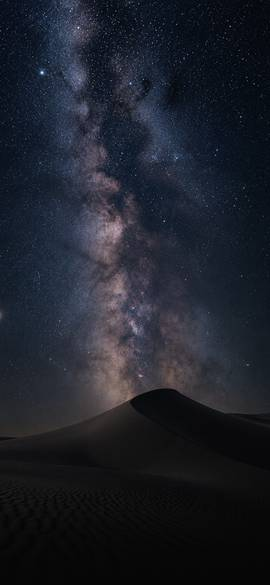
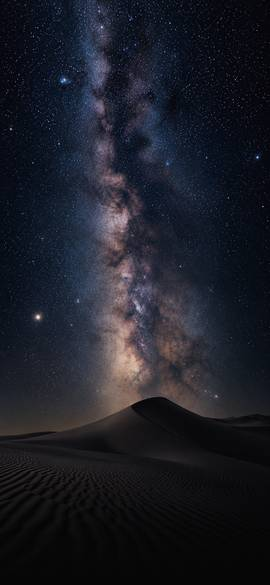
周波数シーンに「浮かぶ泡 14Hz」「火の山 40Hz」を追加、星河をフルスクリーン版に差し替え
Claude-Session: https://claude.ai/code/session_01E1xXeaaEwhmvNp4PTzJFup

diff --git a/index.html b/index.html
@@ -864,7 +864,7 @@ const EN = {
   '読み込めませんでした。書き出したテキストか確認してください':'Could not read it. Make sure it is exported text','ZENTOKIのバックアップではないようです':'This does not look like a ZENTOKI backup','%1件の記録を読み込みました':'%1 records imported','新しい記録はありませんでした（重複は除外）':'Nothing new to import (duplicates skipped)','書き出しました。ダウンロードが始まらない場合は「テキストをコピー」を使ってください':'Exported. If the download does not start, use “Copy as text”','コピーしました。メモなどに貼り付けて保存してください':'Copied. Paste it somewhere safe','コピーできませんでした':'Could not copy','断食・瞑想・体重の記録をすべて削除します。よろしいですか？ 元に戻せません。':'Delete all fasting, meditation and weight records? This cannot be undone.','削除しました':'Deleted',
   '通知はアプリを閉じていても、目標やステージの時刻に届きます。':'Notifications arrive at goal and stage times even when the app is closed.','音はアプリを開いている間だけ流れます。画面ロックや他のアプリへの切り替えで止まります。':'Sound plays while the app is open. It stops when the screen locks or you switch apps.',
   'お支払いはAirペイの決済ページで行います。お支払い後に届く「支払完了メール」を':'Payment is handled on the AirPay checkout page. After paying, forward the payment-confirmation email to','に転送してください。ライセンスキーを返信します（通常24時間以内）。':'and we will reply with your licence key (usually within 24 hours).','こちら':'this address','（Airペイの支払完了メールをこのまま転送してください）':'(Please forward the AirPay payment-confirmation email as is.)','お支払い後、支払完了メールを転送してください。キーをお送りします':'After paying, forward the confirmation email and we will send your key','メールや購入完了ページで受け取ったキー（ZK- で始まる文字列）を入力してください。':'Enter the key you received by email or on the purchase page (it starts with ZK-).',
-  '周波数':'Frequency','周波数の強さ':'Tone strength','低':'Low','普通':'Normal','高':'High','集中':'Focus','睡眠':'Sleep','深い眠り':'Deep sleep','欠けゆく月':'Waning Moon','光の届く深さ':'Where Light Reaches','洞窟の滝':'Cave Falls','聖夜':'Christmas Eve','砂漠の星河':'Desert Milky Way','音量を下げる':'Volume down','音量を上げる':'Volume up',
+  '周波数':'Frequency','周波数の強さ':'Tone strength','低':'Low','普通':'Normal','高':'High','集中':'Focus','睡眠':'Sleep','深い眠り':'Deep sleep','目覚め':'Wake','エネルギー':'Energy','浮かぶ泡':'Rising Bubbles','火の山':'Mountain of Fire','欠けゆく月':'Waning Moon','光の届く深さ':'Where Light Reaches','洞窟の滝':'Cave Falls','聖夜':'Christmas Eve','砂漠の星河':'Desert Milky Way','音量を下げる':'Volume down','音量を上げる':'Volume up',
   '情景と、ひとつの周波数。左右で少し違う高さの音の差が、うなりとして感じられます。':'One scene, one frequency. The small difference between the left and right tones is felt as a slow beat.','イヤホンで聴いてください。':'Listen with earphones.',
   '効果の感じ方には個人差があります。光や音の刺激に敏感な方、てんかんの既往がある方は使用を控えてください。':'Effects vary from person to person. Avoid if you are sensitive to light or sound, or have a history of epilepsy.',
   'キーの形式が違います':'That key format is not right','この版ではライセンスキーを使えません':'Licence keys are not available in this build','ZENTOKI Plus が有効になりました':'ZENTOKI Plus is active','このキーは無効になっています':'This key has been revoked','キーが確認できませんでした':'Could not verify the key','通信できませんでした。あとでもう一度お試しください':'No connection. Please try again later','商品を読み込めませんでした':'Could not load the product','購入を完了できませんでした':'Purchase could not be completed','購入を復元しました':'Purchase restored','復元できる購入が見つかりませんでした':'No purchase to restore','復元できませんでした':'Could not restore','準備中です':'Coming soon',
@@ -924,7 +924,7 @@ const PLUS = {
   // manualKey: true = 決済後にキーをメールで送る運用（Airペイ）。false = Stripe → thanks.html で自動発行。
   web: { paymentLink: 'https://web.online.airpayment.jp/payment?planId=PLqB15OEGREuebjqsd', verifyUrl: '', manualKey: true, supportEmail: '' },
   ios: { rcApiKey: '', entitlement: 'plus', product: 'app.zentoki.plus' },
-  sounds: ['ocean', 'forest', 'fire', 'drone', 'binaural', 'melody', 'eve', 'cave', 'stars'],
+  sounds: ['ocean', 'forest', 'fire', 'drone', 'binaural', 'melody', 'eve', 'cave', 'stars', 'volcano'],
   breaths: ['box', '4-8', '5-10', '6-12', '7-14'],
 };
 // Web billing turns on only when BOTH the payment link and the key-verify worker are set (a link without a way to activate would take money for nothing).
@@ -1417,7 +1417,7 @@ const audio = (() => {
       const l = ctx.createOscillator(); l.frequency.value = 0.04 + i * 0.013; const lg = ctx.createGain(); lg.gain.value = v * 0.45; l.connect(lg); lg.connect(g.gain);
       o.connect(g); g.connect(lp); g.connect(verb); o.start(); l.start(); nodes.push(o, g, l, lg);
     });
-    if (sc.layer) { const lg = ctx.createGain(); lg.gain.value = sc.layerGain || 0.35; lg.connect(out); nodes.push(lg); ({ ocean: buildOcean, stream: buildWater, forest: buildForest, rain: buildRain }[sc.layer] || (() => {}))(lg, nodes); }
+    if (sc.layer) { const lg = ctx.createGain(); lg.gain.value = sc.layerGain || 0.35; lg.connect(out); nodes.push(lg); ({ ocean: buildOcean, stream: buildWater, forest: buildForest, rain: buildRain, fire: buildFire }[sc.layer] || (() => {}))(lg, nodes); }
   }
   const ambKey = () => settings.sound.mode === 'binaural' ? `binaural:${settings.sound.beat}:${settings.sound.layerWater ? 1 : 0}` : (SCENES.some(x => x.id === settings.sound.mode) ? `scene:${settings.sound.mode}:${settings.sound.freq}` : settings.sound.mode);
   function startAmb(mode) {
@@ -1779,6 +1779,8 @@ const SCENES = [
   { id:'cave',  hz:6,  cat:'瞑想', ja:'洞窟の滝', en:'Cave Falls', desc:'岩の奥に落ちる水と、差し込む光。呼吸だけが残る場所。', descEn:'Water falling deep in the rock, and one shaft of light. A place where only breath remains.', carrier:150, lp:800, pad:[[98,.05],[146.8,.04],[196,.03],[293.7,.015]], layer:'stream', layerGain:.28, img:'assets/scenes/cave.jpg' },
   { id:'eve',   hz:7,  cat:'睡眠', ja:'聖夜', en:'Christmas Eve', desc:'琥珀色のキャンドルの下で。今日をそっと閉じるための、内省的なトーン。', descEn:'Under amber candlelight. An inward tone for closing the day gently.', carrier:175, lp:900, pad:[[104,.07],[130.9,.045],[155.3,.04],[247,.03],[370,.02],[415.3,.015]] },
   { id:'stars', hz:3,  cat:'深い眠り', ja:'砂漠の星河', en:'Desert Milky Way', desc:'砂丘の上に、天の川。何も考えなくていい夜へ。', descEn:'The Milky Way rising over dunes. Into a night where nothing needs thinking.', carrier:120, sub:40, lp:500, pad:[[65.4,.06],[98,.04],[130.8,.03],[196,.015]], img:'assets/scenes/stars.jpg' },
+  { id:'bubbles', hz:14, cat:'目覚め', ja:'浮かぶ泡', en:'Rising Bubbles', desc:'光へ向かって、泡がのぼっていく。朝、頭をすっと切り替えるための軽い音。', descEn:'Bubbles climbing toward the light. A light tone for switching your head on in the morning.', carrier:220, lp:1400, pad:[[164.8,.05],[220,.04],[329.6,.03],[440,.015]], layer:'stream', layerGain:.22, img:'assets/scenes/bubbles.jpg' },
+  { id:'volcano', hz:40, cat:'エネルギー', ja:'火の山', en:'Mountain of Fire', desc:'噴き上がる火と、流れる溶岩。体の奥から力を引き出したいときに。', descEn:'Fire rising and lava flowing. For drawing strength up from deep inside.', carrier:200, sub:50, lp:1100, pad:[[73.4,.06],[110,.05],[146.8,.035],[220,.02]], layer:'fire', layerGain:.3, img:'assets/scenes/volcano.jpg' },
 ];
 const sName = x => lang === 'en' ? x.en.charAt(0) + x.en.slice(1).toLowerCase() : x.ja;
 const sSub = x => lang === 'en' ? x.ja : x.en;
